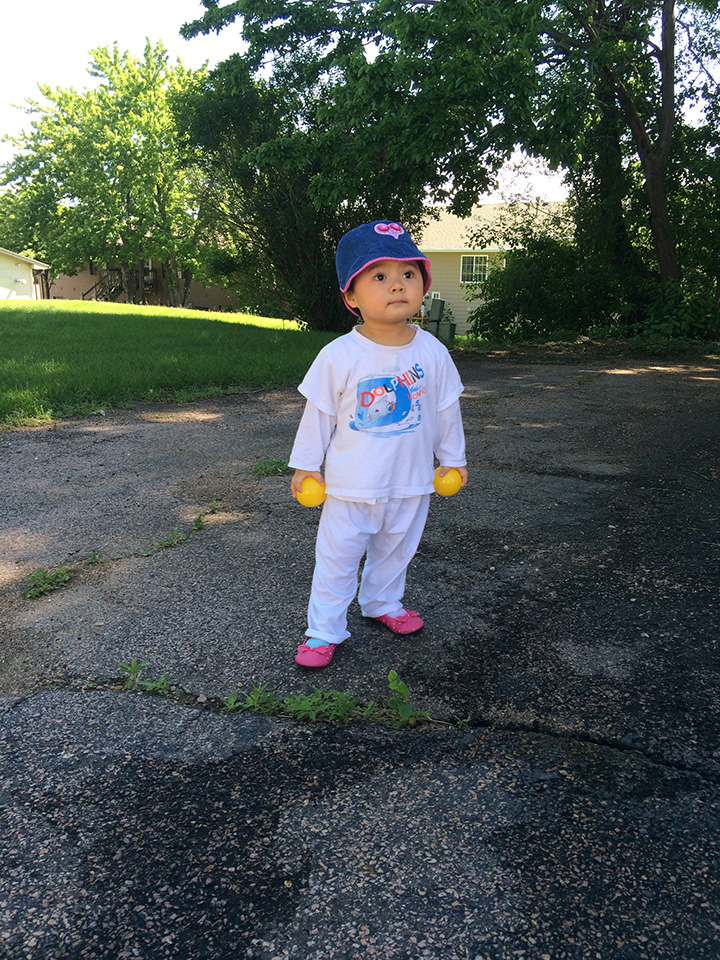
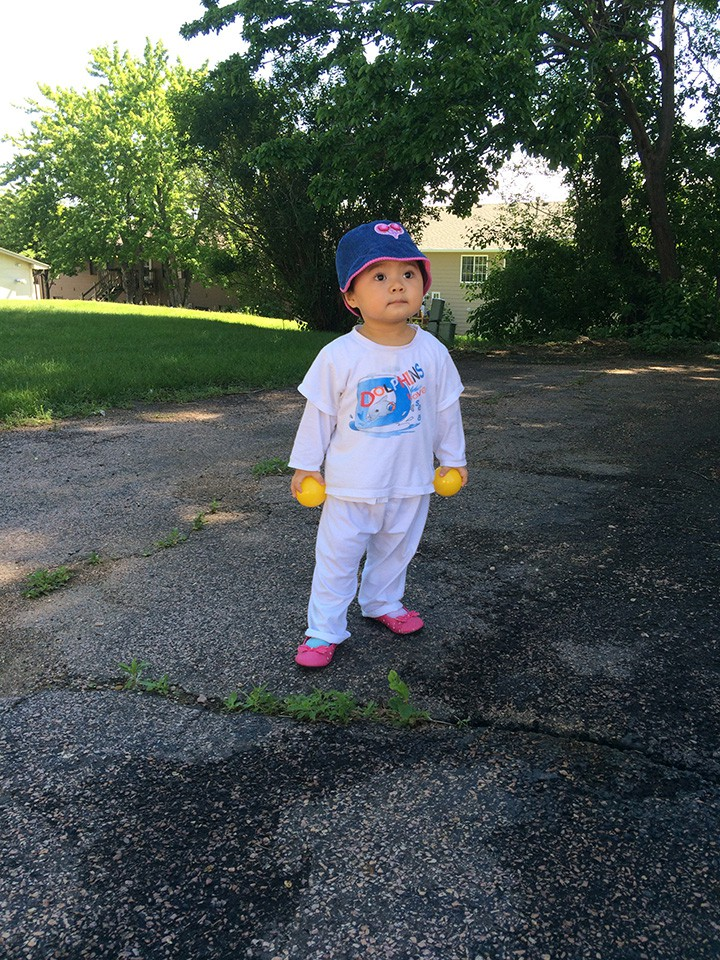
reduce image sizes

diff --git a/style.css b/style.css
@@ -248,7 +248,7 @@ article#home {
 }
 
 #home .wrapper__image {
-  background: #E8E7E5 url("images/pic01.JPG") no-repeat center;
+  background: #E8E7E5 url("images/home-pic.jpg") no-repeat center;
   background-size: cover;
 }
 
